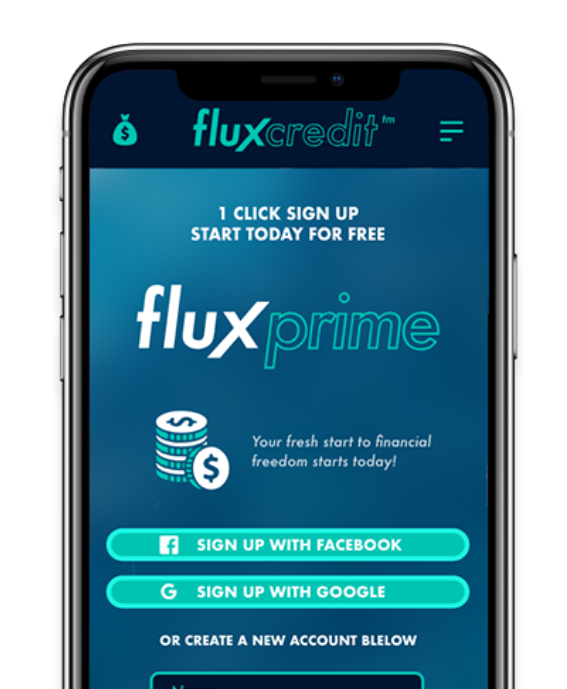
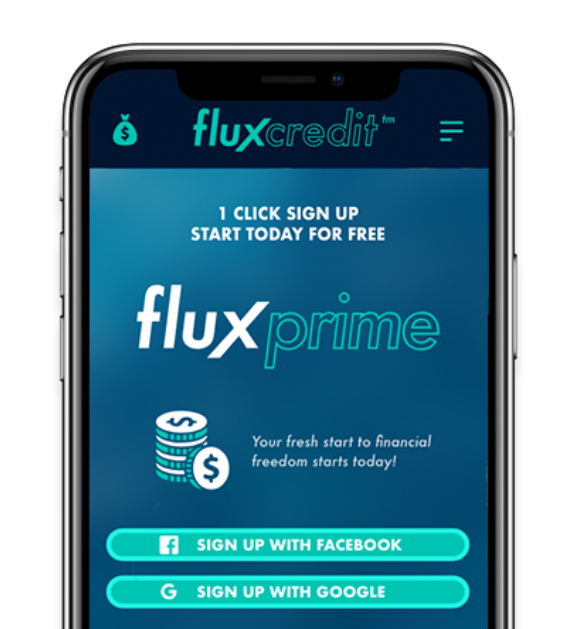
update

diff --git a/public/css/app.css b/public/css/app.css
@@ -2282,7 +2282,7 @@ footer.main-footer .footer-branding a {
   padding-left: 10%;
   padding-right: 10%;
   padding-top: 85px;
-  padding-bottom: 85px;
+  padding-bottom: 30px;
   background: white;
   color: #00C4B3;
 }
@@ -2400,7 +2400,7 @@ footer.main-footer .footer-branding a {
   float: left;
   display: block;
   margin-right: 2.35765202%;
-  width: 23.23176098%;
+  width: 31.76156532%;
 }
 
 .container-fluid.products .iphone:last-child {

diff --git a/resources/assets/sass/app.scss b/resources/assets/sass/app.scss
@@ -1445,7 +1445,7 @@ footer.main-footer {
   padding-left: 10%;
   padding-right: 10%;
   padding-top: 85px;
-  padding-bottom: 85px;
+  padding-bottom: 30px;
   background: white;
   @include media($tablet) {
     padding-left: 5%;
@@ -1529,7 +1529,7 @@ footer.main-footer {
   }
   .iphone {
     margin-left: 15%;
-    @include span-columns(3);
+    @include span-columns(4);
     @include media($tablet) {
       display: none;
     }
